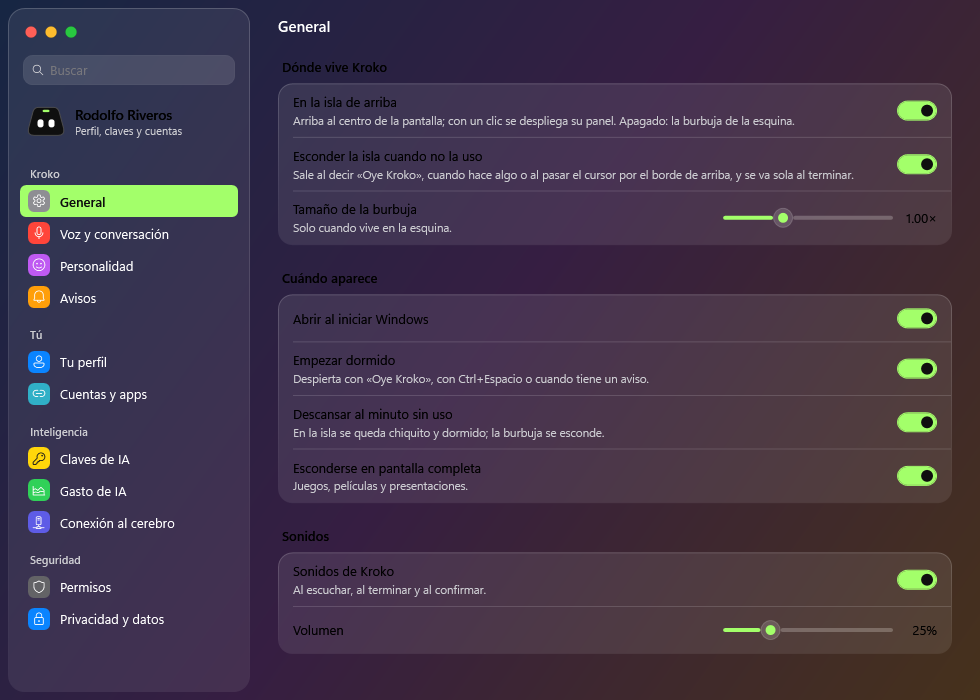
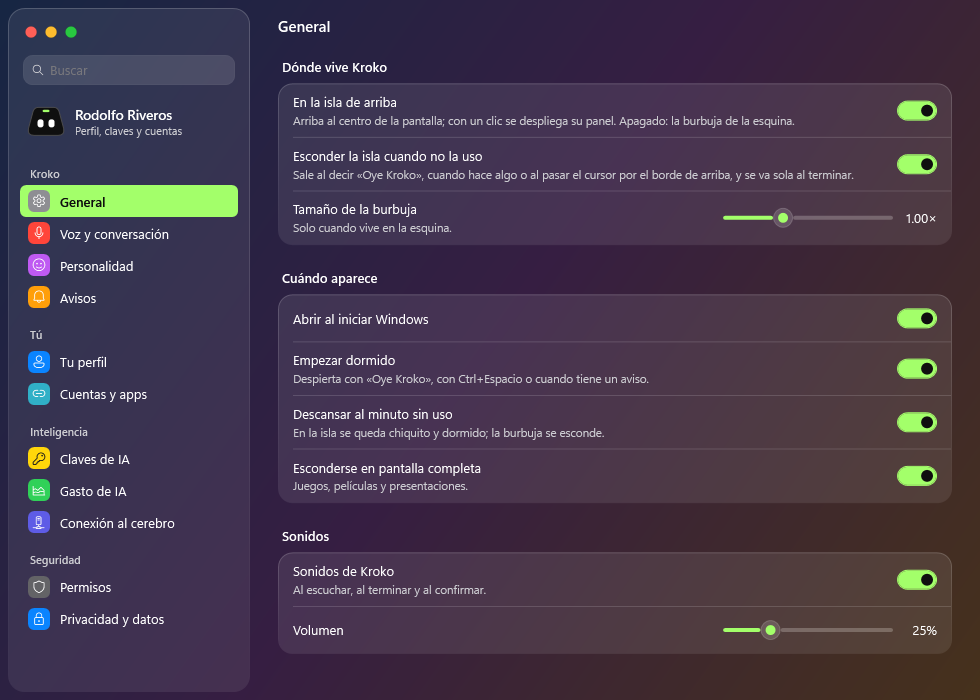
Kroko 1.0.11: títulos de Configuración en blanco (antes salían casi negros)

diff --git a/src/Kroko.App/Views/SettingsWindow.xaml b/src/Kroko.App/Views/SettingsWindow.xaml
@@ -212,7 +212,7 @@
                     </Border>
 
                     <!-- Tu perfil (como la cuenta en macOS): lleva a «Tu perfil» -->
-                    <Button DockPanel.Dock="Top" Click="Profile_Click" Cursor="Hand" Margin="0,0,0,6">
+                    <Button DockPanel.Dock="Top" Click="Profile_Click" Cursor="Hand" Margin="0,0,0,6" Foreground="{StaticResource Kroko.Text}">
                         <Button.Template>
                             <ControlTemplate TargetType="Button">
                                 <Border x:Name="Bd" CornerRadius="8" Padding="8,8" Background="Transparent">
@@ -284,7 +284,11 @@
 
                 <TabControl SelectedIndex="{Binding SelectedSection}" Background="Transparent" BorderThickness="0" Padding="0">
                     <TabControl.ItemContainerStyle>
-                        <Style TargetType="TabItem"><Setter Property="Visibility" Value="Collapsed" /></Style>
+                        <Style TargetType="TabItem">
+                            <Setter Property="Visibility" Value="Collapsed" />
+                            <!-- El contenido de cada página hereda las letras de su pestaña: blancas, no el negro de Windows -->
+                            <Setter Property="Foreground" Value="{StaticResource Kroko.Text}" />
+                        </Style>
                     </TabControl.ItemContainerStyle>
                     <TabControl.Template>
                         <ControlTemplate TargetType="TabControl">

diff --git a/src/Kroko.App/Theme/KrokoTheme.xaml b/src/Kroko.App/Theme/KrokoTheme.xaml
@@ -576,6 +576,8 @@
         <Setter Property="Background" Value="Transparent" />
     </Style>
     <Style TargetType="TabControl"><Setter Property="Foreground" Value="{StaticResource Kroko.Text}" /></Style>
+    <Style TargetType="TabItem"><Setter Property="Foreground" Value="{StaticResource Kroko.Text}" /></Style>
+    <Style TargetType="Button"><Setter Property="Foreground" Value="{StaticResource Kroko.Text}" /></Style>
 
     <!--
         Ventana estilo macOS para TODAS las ventanas de Kroko (17/11/2026, pedido por Pol): sin el marco de Windows,

diff --git a/CLAUDE.md b/CLAUDE.md
@@ -556,3 +556,4 @@ Telegram, autenticación por token, despliegue del Brain en servidor (Docker), l
 - [x] Extra — Toda su personalidad (17/11/2026, **v1.0.9**): la IA ya puede elegir **27 caras** (antes 18: se sumaron crying, sleepy, yawn, waking, alert, error, dizzy, focus y bored, en `Reactions.All`) y se le pide variar; en **voz en tiempo real** (donde no hay etiquetas) y cuando la IA olvida la etiqueta, la cara sale de lo que dice (`Reactions.Guess`: «listo/anotado» → success, «jaja» → laugh, «lo siento» → sad, «de nada» → love…). Prueba que cada cara elegible existe en `expressions.json`. Pruebas: 231 (cerebro) + 110 (App).
 
 - [x] Extra — Liquid Glass (17/11/2026, **v1.0.10**, pedido por Pol: «el estilo Mac es más Liquid Glass» y «el contraste del fondo con las letras no cuadra»): las ventanas usan el **vidrio acrílico real de Windows 11** (`Views/Glass.cs`: `DWMWA_SYSTEMBACKDROP_TYPE` acrílico, modo oscuro y esquinas redondas del sistema; ventanas sin transparencia por píxel y `WindowChrome GlassFrameThickness=-1`) con un tinte oscuro encima (`Kroko.GlassTint` #C2101012) para que las letras blancas se lean siempre; en Windows 10 el tinte es negro sólido. Superficies de vidrio blanco translúcido (`Kroko.Surface` #17FFFFFF) con borde de luz (`Kroko.GlassEdge`), texto secundario más claro (#D1D1D6). Configuración: barra lateral como panel de vidrio flotante y tarjetas de 14 px. Las capturas se dibujan sobre un escritorio de colores (peor caso de contraste). Pruebas: 231 (cerebro) + 110 (App).
+- Arreglo (17/11/2026, **v1.0.11**): los títulos de las filas de Configuración («Dónde vive Kroko», «Tamaño de la burbuja», tu nombre) salían casi negros: el contenido de cada pestaña heredaba el texto negro que Windows le pone a `TabItem`. Ahora `TabItem` y `Button` llevan letras blancas por defecto (tema y Configuración). Medido en la captura: texto 255 (blanco puro).
